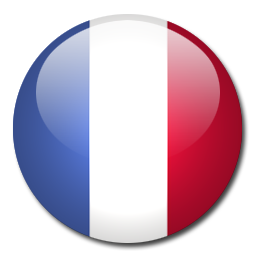
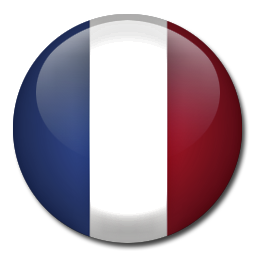
img config

diff --git a/src/app/main/main.component.html b/src/app/main/main.component.html
@@ -35,12 +35,12 @@
           </li>
           <li class="nav-item">
             <a class="nav-link nav-link-lang" href="fr">
-              <img src="assets/images/FR-flag-2.png">
+              <img src="assets/images/FR-flag.png">
             </a>
           </li>
           <li class="nav-item">
               <a class="nav-link nav-link-lang" href="en">
-                <img src="assets/images/UK-flag-2.png">
+                <img src="assets/images/UK-flag.png">
               </a>
           </li>
       </ul>

diff --git a/src/app/about/about.component.html b/src/app/about/about.component.html
@@ -1,7 +1,7 @@
 <div class="main">
   <div class="container">
   <h1 class="title"><span>{{title}}</span></h1>
-  <img class="img-rounded-circle" src="assets/images/me-2.jpg" alt="Avatar">
+  <img class="img-rounded-circle" src="assets/images/me.jpg" alt="Avatar">
   <div class="about-presentation">
     <p>
         <i class="fas fa-quote-left"></i>
